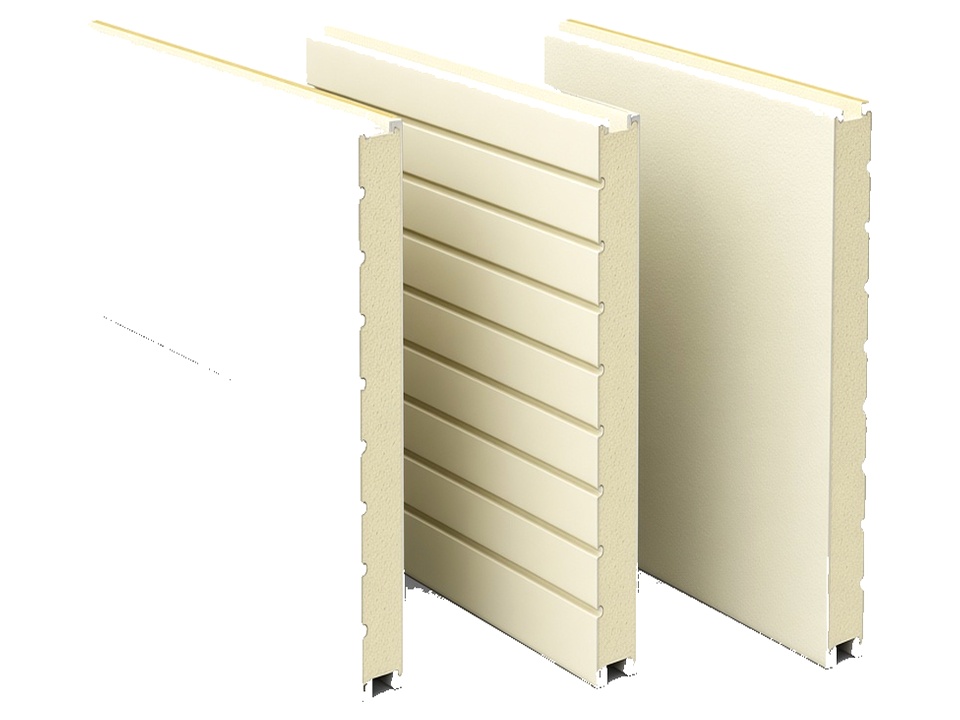
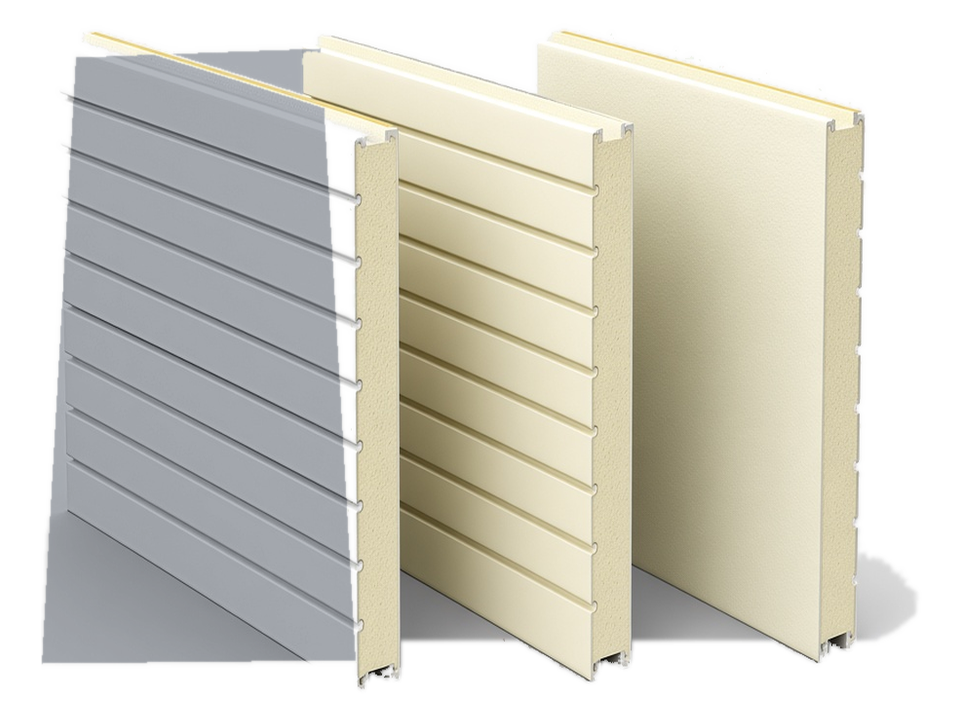
우레탄 왼쪽 판넬 은회색 + 지붕강판 홑강판 설명 수정
대표님 피드백:
- 우레탄패널 허브: 가장 왼쪽 판넬 면이 하얗게 날아가 형체를 못 알아봄 → 은회색으로 채움(골 유지, 흰 배경)
- 지붕강판: 「내부에 단열재가 채워져 있고」 오류 → 단열재 없는 홑강판, 축사·돈사·노후 지붕 덧방용 설명으로 교체

diff --git a/products.html b/products.html
@@ -64,7 +64,7 @@
 <p class="lead">판넬부터 컬러강판·부자재·도어·사이딩·창문까지, 품목별 사진·도면·규격을 모두 모았습니다.</p>
 <nav class="jump" aria-label="분류 바로가기"><a href="#sandwich">샌드위치패널</a><a href="#steel">컬러강판</a><a href="#acc">부자재</a><a href="#pcfrp">PC/FRP</a><a href="#door">도어</a><a href="#metal">메탈사이딩</a><a href="#ceramic">세라믹사이딩</a><a href="#window">창문</a></nav>
 <section class="hub-cat" id="sandwich"><h2>샌드위치패널</h2><p>보통 컬러강판(스틸)으로 만들어진 이중 벽 구조를 가진 패널로, 내부에 단열재가 채워져 있어 열 및 소음 차단 효과가 뛰어납니다.</p><div class="hub-grid"><a class="hub-item" href="eps_panel.html"><div class="thumb"><img src="img/thumb/hub-eps_panel.webp" width="427" height="360" alt="EPS패널" loading="lazy" decoding="async"></div><div class="hb"><b>EPS패널</b><span>가장 경제적인 비용으로 건축물을 시공할 수 있는 대표적 패널입니다.</span></div></a><a class="hub-item" href="glass_panel.html"><div class="thumb"><img src="img/thumb/hub-glass_panel.webp" width="480" height="333" alt="그라스울패널" loading="lazy" decoding="async"></div><div class="hb"><b>그라스울패널</b><span>화재 시 인체에 유해한 유독가스가 발생하지 않아 화재로부터 위험을 극소화 시킬 수 있는 패널입니다.</span></div></a><a class="hub-item" href="urethane_panel.html"><div class="thumb"><img src="img/thumb/hub-urethane_panel.webp" width="480" height="360" alt="우레탄패널" loading="lazy" decoding="async"></div><div class="hb"><b>우레탄패널</b><span>방화성능과 뛰어난 단열성을 가진 패널입니다.</span></div></a></div></section>
-<section class="hub-cat" id="steel"><h2>컬러강판</h2><p>강판 표면에 특수 도료를 코팅하여 내식성과 내구성을 향상시킨 제품으로, 건축 및 건설 산업에서 내·외벽재로 널리 사용됩니다.</p><div class="hub-grid"><a class="hub-item" href="zinc_panel.html"><div class="thumb"><img src="img/thumb/hub-zinc_panel.webp" width="473" height="360" alt="징크강판" loading="lazy" decoding="async"></div><div class="hb"><b>징크강판</b><span>아연 도금된 강판으로, 내식성이 뛰어나고 오랜 기간 사용해도 부식이 적은 장점을 가지고 있습니다.</span></div></a><a class="hub-item" href="roof_panel.html"><div class="thumb"><img src="img/thumb/hub-roof_panel.webp" width="480" height="342" alt="지붕강판" loading="lazy" decoding="async"></div><div class="hb"><b>지붕강판</b><span>내부에 단열재가 채워져 있고, 내구성과 방수성이 뛰어나고 설치가 용이하여 건물의 지붕재료로 널리 사용됩니다.</span></div></a><a class="hub-item" href="louver_steel.html"><div class="thumb"><img src="img/thumb/hub-louver_steel.webp" width="480" height="360" alt="루버강판" loading="lazy" decoding="async"></div><div class="hb"><b>루버강판</b><span>가벼우면서도 강도가 높아서 건물의 빛과 통풍을 유지하면서도 안전하게 사용됩니다.</span></div></a><a class="hub-item" href="v115.html"><div class="thumb"><img src="img/thumb/hub-v115.webp" width="480" height="208" alt="V-115" loading="lazy" decoding="async"></div><div class="hb"><b>V-115</b><span>고온 환경에서의 사용에 적합하며 내식성과 내구성이 뛰어납니다.</span></div></a><a class="hub-item" href="pe_foam.html"><div class="thumb"><img src="img/thumb/hub-pe_foam.webp" width="480" height="273" alt="PE폼" loading="lazy" decoding="async"></div><div class="hb"><b>PE폼</b><span>경량이면서도 내구성이 뛰어나고 충격 흡수 능력이 높아서 패키징 및 보호재로 사용됩니다.</span></div></a><a class="hub-item" href="color_palette.html"><div class="thumb"><img src="img/thumb/hub-color_palette-mix.webp" width="510" height="294" alt="색상표" loading="lazy" decoding="async"></div><div class="hb"><b>색상표</b><span>해상도의 차이로 실제 색상은 다를 수 있으므로 주문하실 때에는 실제 색상을 확인 후 선택하시기 바랍니다.</span></div></a></div></section>
+<section class="hub-cat" id="steel"><h2>컬러강판</h2><p>강판 표면에 특수 도료를 코팅하여 내식성과 내구성을 향상시킨 제품으로, 건축 및 건설 산업에서 내·외벽재로 널리 사용됩니다.</p><div class="hub-grid"><a class="hub-item" href="zinc_panel.html"><div class="thumb"><img src="img/thumb/hub-zinc_panel.webp" width="473" height="360" alt="징크강판" loading="lazy" decoding="async"></div><div class="hb"><b>징크강판</b><span>아연 도금된 강판으로, 내식성이 뛰어나고 오랜 기간 사용해도 부식이 적은 장점을 가지고 있습니다.</span></div></a><a class="hub-item" href="roof_panel.html"><div class="thumb"><img src="img/thumb/hub-roof_panel.webp" width="480" height="342" alt="지붕강판" loading="lazy" decoding="async"></div><div class="hb"><b>지붕강판</b><span>단열재가 없는 홑강판(컬러강판)으로, 가벼워 축사·돈사 등에 쓰이며 노후 지붕 덧방용으로도 사용됩니다.</span></div></a><a class="hub-item" href="louver_steel.html"><div class="thumb"><img src="img/thumb/hub-louver_steel.webp" width="480" height="360" alt="루버강판" loading="lazy" decoding="async"></div><div class="hb"><b>루버강판</b><span>가벼우면서도 강도가 높아서 건물의 빛과 통풍을 유지하면서도 안전하게 사용됩니다.</span></div></a><a class="hub-item" href="v115.html"><div class="thumb"><img src="img/thumb/hub-v115.webp" width="480" height="208" alt="V-115" loading="lazy" decoding="async"></div><div class="hb"><b>V-115</b><span>고온 환경에서의 사용에 적합하며 내식성과 내구성이 뛰어납니다.</span></div></a><a class="hub-item" href="pe_foam.html"><div class="thumb"><img src="img/thumb/hub-pe_foam.webp" width="480" height="273" alt="PE폼" loading="lazy" decoding="async"></div><div class="hb"><b>PE폼</b><span>경량이면서도 내구성이 뛰어나고 충격 흡수 능력이 높아서 패키징 및 보호재로 사용됩니다.</span></div></a><a class="hub-item" href="color_palette.html"><div class="thumb"><img src="img/thumb/hub-color_palette-mix.webp" width="510" height="294" alt="색상표" loading="lazy" decoding="async"></div><div class="hb"><b>색상표</b><span>해상도의 차이로 실제 색상은 다를 수 있으므로 주문하실 때에는 실제 색상을 확인 후 선택하시기 바랍니다.</span></div></a></div></section>
 <section class="hub-cat" id="acc"><h2>부자재</h2><p>판넬 설치와 고정, 밀폐 등을 지원하여 구조적 완성도와 내구성을 높여주는 보조 자재입니다.</p><div class="hub-grid"><a class="hub-item" href="flashing.html"><div class="thumb"><img src="img/thumb/hub-flashing.webp" width="297" height="162" alt="후레싱" loading="lazy" decoding="async"></div><div class="hb"><b>후레싱</b><span>다양한 부자재를 통하여 정교하고 깔끔한 마무리를 할 수 있습니다.</span></div></a><a class="hub-item" href="water_pan.html"><div class="thumb"><img src="img/thumb/hub-water_pan.webp" width="273" height="199" alt="물받이시스템" loading="lazy" decoding="async"></div><div class="hb"><b>물받이시스템</b><span>건물의 지붕이나 외벽을 따라 빗물을 모아 배수하는 구조물로, 건물 손상을 방지하고 물을 효율적으로 처리하는 역할을 합니다.</span></div></a><a class="hub-item" href="clean_room.html"><div class="thumb"><img src="img/thumb/hub-clean_room.webp" width="380" height="251" alt="크린룸자재" loading="lazy" decoding="async"></div><div class="hb"><b>크린룸자재</b><span>청정 환경을 유지하거나 온도, 습도,압력 등의 환경관리를 위해 먼지와 오염 물질 차단 기능을 갖춘 특수 소재로 제작된 자재입니다.</span></div></a><a class="hub-item" href="panel_accessories.html"><div class="thumb"><img src="img/thumb/hub-panel_accessories.webp" width="198" height="153" alt="부속자재" loading="lazy" decoding="async"></div><div class="hb"><b>부속자재</b><span>판넬의 완성도를 높여주기 위한 자재입니다.</span></div></a></div></section>
 <section class="hub-cat" id="pcfrp"><h2>PC/FRP</h2><p>내구성이 뛰어난 건축 자재입니다.</p><div class="hub-grid"><a class="hub-item" href="pc_roof.html"><div class="thumb none">서비스 준비중입니다.</div><div class="hb"><b>PC지붕판</b><span>폴리카보네이트로 만든 투명하고 내구성이 강한 지붕재입니다.</span></div></a><a class="hub-item" href="frp.html"><div class="thumb none">서비스 준비중입니다.</div><div class="hb"><b>FRP</b><span>유리섬유 강화 플라스틱으로 만든 가볍고 강한 재료입니다.</span></div></a></div></section>
 <section class="hub-cat" id="door"><h2>도어</h2><p>다양한 재료로 제작되어 내구성과 보안성을 제공하는 건축 자재입니다.</p><div class="hub-grid"><a class="hub-item" href="hanger_door.html"><div class="thumb"><img src="img/thumb/hub-hanger_door.webp" width="339" height="360" alt="행거도어" loading="lazy" decoding="async"></div><div class="hb"><b>행거도어</b><span>경량으로 작동감이 유연하며 방음 및 단열성이 우수합니다.</span></div></a><a class="hub-item" href="swing_door.html"><div class="thumb"><img src="img/thumb/hub-swing_door.webp" width="480" height="324" alt="스윙도어" loading="lazy" decoding="async"></div><div class="hb"><b>스윙도어</b><span>각 접합 부위가 완전 밀봉되어 기밀성을 보존하고 분진이 부착되어도 쉽게 세척 제거 할 수 있습니다.</span></div></a><a class="hub-item" href="abs_door.html"><div class="thumb"><img src="img/thumb/hub-abs_door.webp" width="158" height="360" alt="ABS도어" loading="lazy" decoding="async"></div><div class="hb"><b>ABS도어</b><span>내구성과 방수성이 뛰어난 ABS 수지로 만든 경량의 도어입니다.</span></div></a><a class="hub-item" href="fire_door.html"><div class="thumb"><img src="img/thumb/hub-fire_door.webp" width="174" height="360" alt="방화문" loading="lazy" decoding="async"></div><div class="hb"><b>방화문</b><span>화재 시 불과 연기의 확산을 막아 안전을 보장하는 내화성이 뛰어난 도어입니다.</span></div></a><a class="hub-item" href="main_door.html"><div class="thumb"><img src="img/thumb/hub-main_door.webp" width="192" height="360" alt="현관문" loading="lazy" decoding="async"></div><div class="hb"><b>현관문</b><span>건물의 출입구에 설치되어 보안과 단열을 제공하는 기능적이고 내구성 있는 도어입니다.</span></div></a><a class="hub-item" href="sliding_door.html"><div class="thumb"><img src="img/thumb/hub-sliding_door.webp" width="225" height="360" alt="3연동도어" loading="lazy" decoding="async"></div><div class="hb"><b>3연동도어</b><span>문이 세 개의 패널로 구성되어, 슬라이딩 방식으로 열리고 닫히면서 공간 활용을 최적화하는 도어 시스템입니다.</span></div></a></div></section>

diff --git a/roof_panel.html b/roof_panel.html
@@ -4,7 +4,7 @@
 <meta charset="utf-8">
 <meta name="viewport" content="width=device-width, initial-scale=1, viewport-fit=cover">
 <title>지붕강판 | 컬러강판 | ㈜네오판넬</title>
-<meta name="description" content="내부에 단열재가 채워져 있고, 내구성과 방수성이 뛰어나고 설치가 용이하여 건물의 지붕재료로 널리 사용됩니다.">
+<meta name="description" content="단열재가 없는 홑강판(컬러강판)으로, 가벼워 축사·돈사 등에 쓰이며 노후 지붕 덧방용으로도 사용됩니다.">
 <link rel="canonical" href="https://www.neo-panel.com/roof_panel">
 <meta name="theme-color" content="#eaf4fc">
 <meta name="apple-itunes-app" content="app-id=6807864957">
@@ -12,7 +12,7 @@
 <meta property="og:site_name" content="㈜네오판넬">
 <meta property="og:locale" content="ko_KR">
 <meta property="og:title" content="지붕강판 | 컬러강판 | ㈜네오판넬">
-<meta property="og:description" content="내부에 단열재가 채워져 있고, 내구성과 방수성이 뛰어나고 설치가 용이하여 건물의 지붕재료로 널리 사용됩니다.">
+<meta property="og:description" content="단열재가 없는 홑강판(컬러강판)으로, 가벼워 축사·돈사 등에 쓰이며 노후 지붕 덧방용으로도 사용됩니다.">
 <meta property="og:url" content="https://www.neo-panel.com/roof_panel">
 <meta property="og:image" content="https://www.neo-panel.com/img/p/roof_panel/003_roof_panel_02.png">
 <meta name="twitter:card" content="summary_large_image">
@@ -69,7 +69,7 @@
   <aside class="side" aria-label="컬러강판 메뉴"><div class="side-box"><h2>컬러강판</h2><ul><li><a href="zinc_panel.html">징크강판</a></li><li><a href="roof_panel.html" aria-current="page">지붕강판</a></li><li><a href="louver_steel.html">루버강판</a></li><li><a href="v115.html">V-115</a></li><li><a href="pe_foam.html">PE폼</a></li><li><a href="color_palette.html">색상표</a></li></ul></div><div class="side-help"><b>전화 상담</b><a class="tel" href="tel:041-548-0484">041-548-0484</a><a class="btn btn-primary" href="https://junghakrok-prog.github.io/" target="_blank" rel="noopener">3D로 바로 견적 →</a></div></aside>
   <article class="content">
 <h1>지붕강판</h1>
-<p class="lead">내부에 단열재가 채워져 있고, 내구성과 방수성이 뛰어나고 설치가 용이하여 건물의 지붕재료로 널리 사용됩니다.</p>
+<p class="lead">단열재가 없는 홑강판(컬러강판)으로, 가벼워 축사·돈사 등에 쓰이며 노후 지붕 덧방용으로도 사용됩니다.</p>
 <section class="sec"><h2>덧방용강판 V-250(4골)</h2>
 <div class="pd"><figure class="fig pd-main"><a class="zoom" href="img/p/roof_panel/002_roof_panel_01.webp" data-cap=""><picture><source type="image/webp" srcset="img/p/roof_panel/002_roof_panel_01.webp"><img src="img/p/roof_panel/002_roof_panel_01.png" width="1040" height="742" alt="지붕강판 — 덧방용강판 V-250(4골) — 사진 2" loading="lazy" decoding="async"></picture></a></figure><div class="pd-side"><figure class="fig cap-top"><a class="zoom" href="img/p/roof_panel/003_roof_panel_02.webp" data-cap="▶ 제품형상"><picture><source type="image/webp" srcset="img/p/roof_panel/003_roof_panel_02.webp"><img src="img/p/roof_panel/003_roof_panel_02.png" width="897" height="157" alt="지붕강판 — 덧방용강판 V-250(4골) — 제품형상" loading="lazy" decoding="async"></picture></a><figcaption>▶ 제품형상</figcaption></figure></div></div>
 </section>
